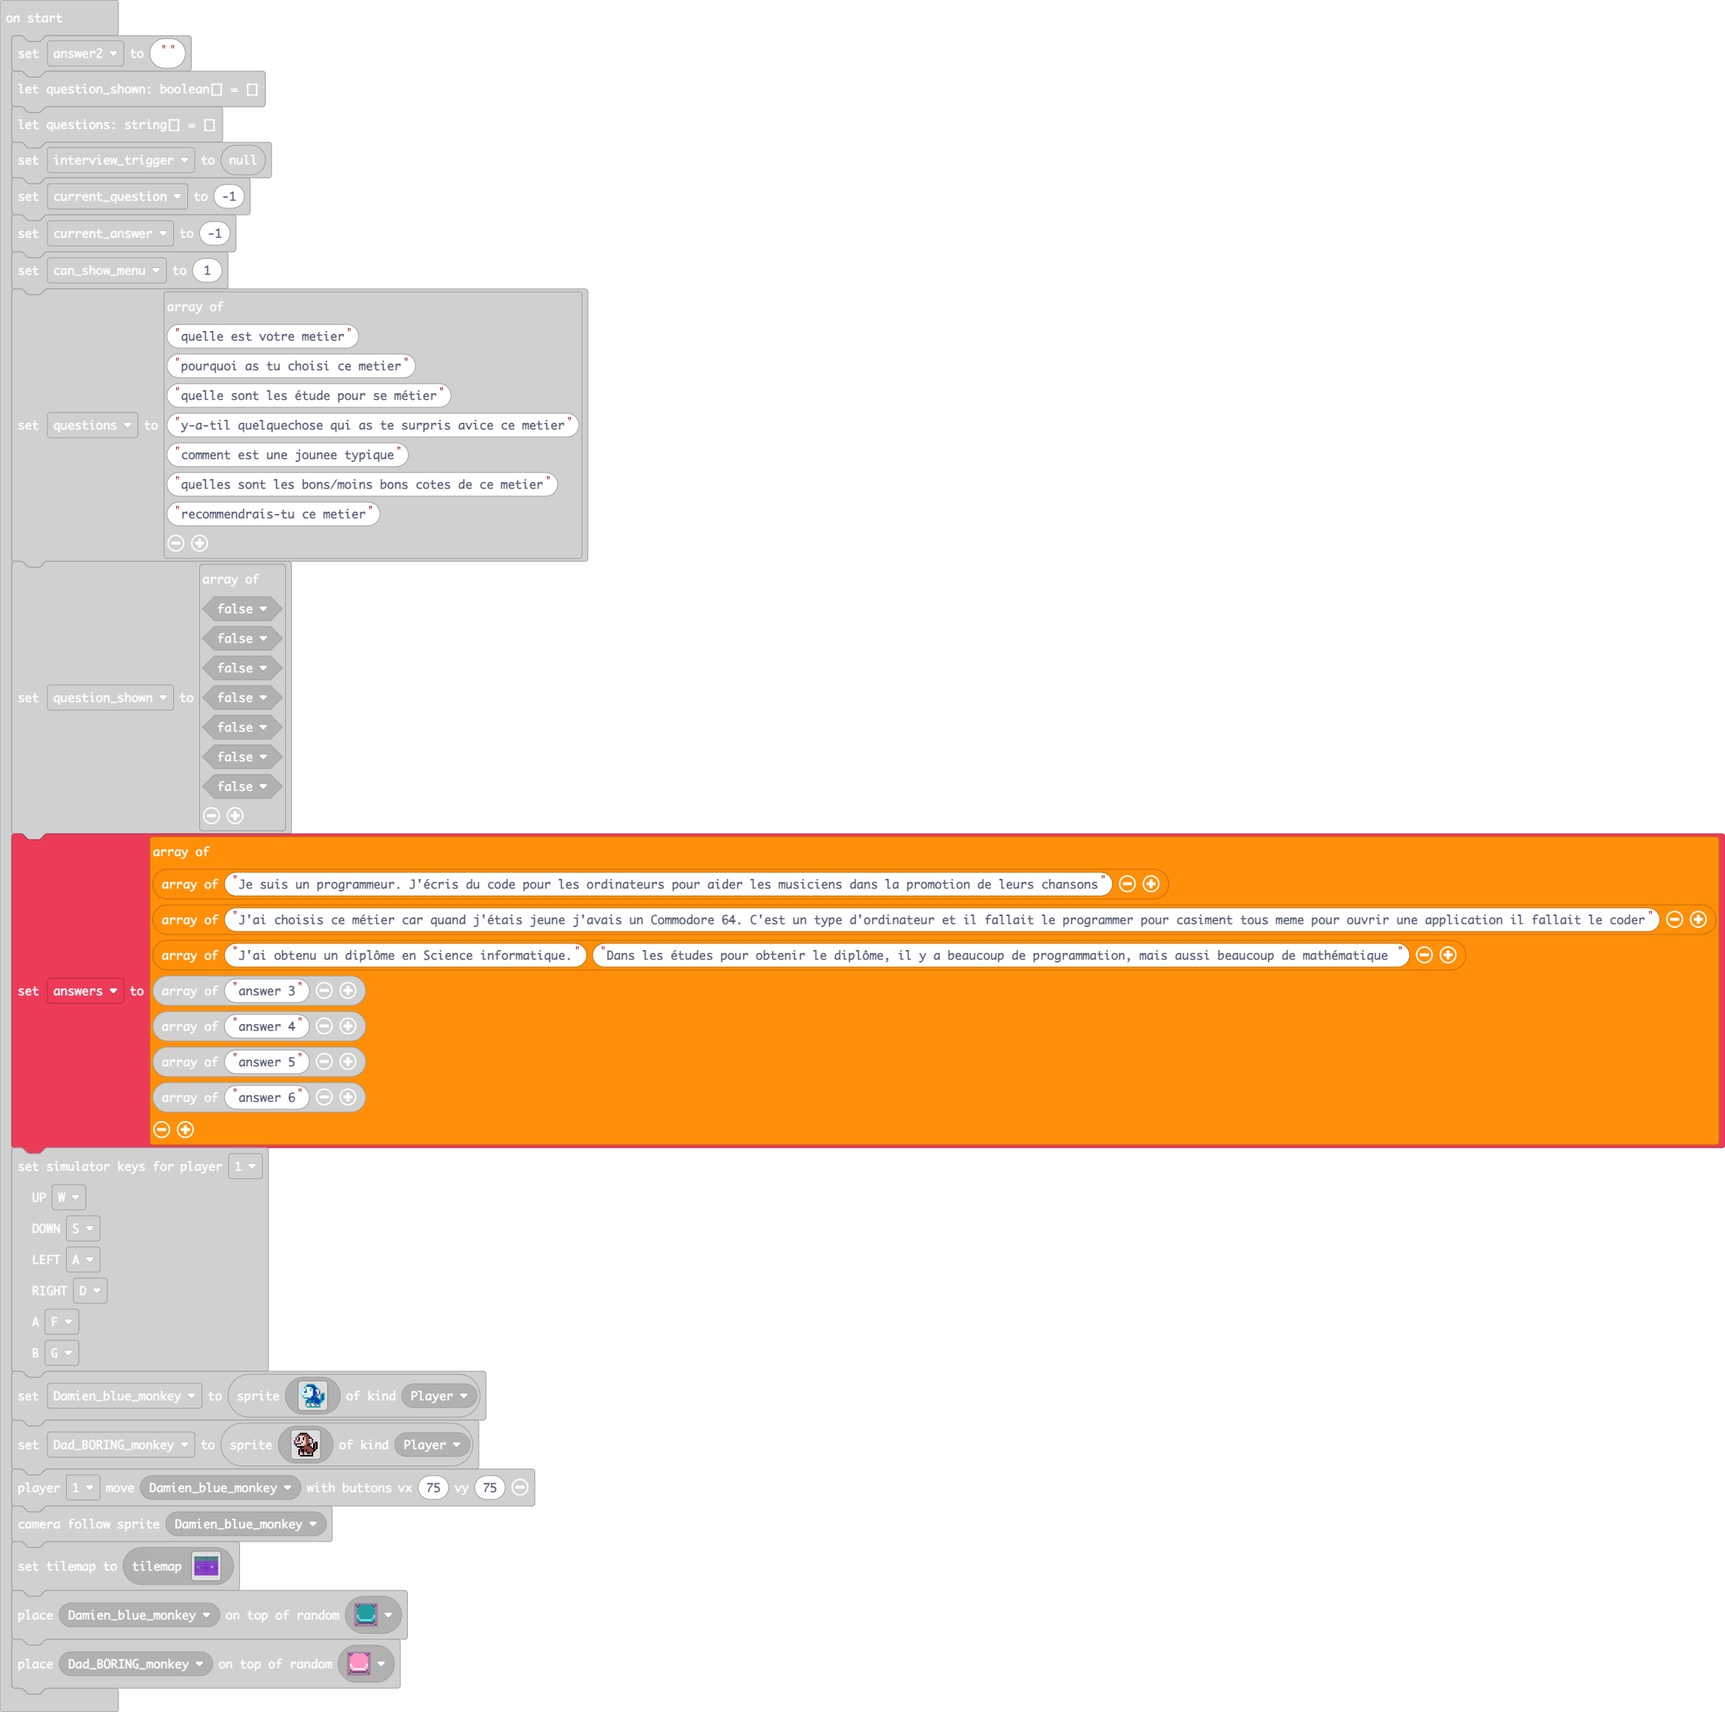
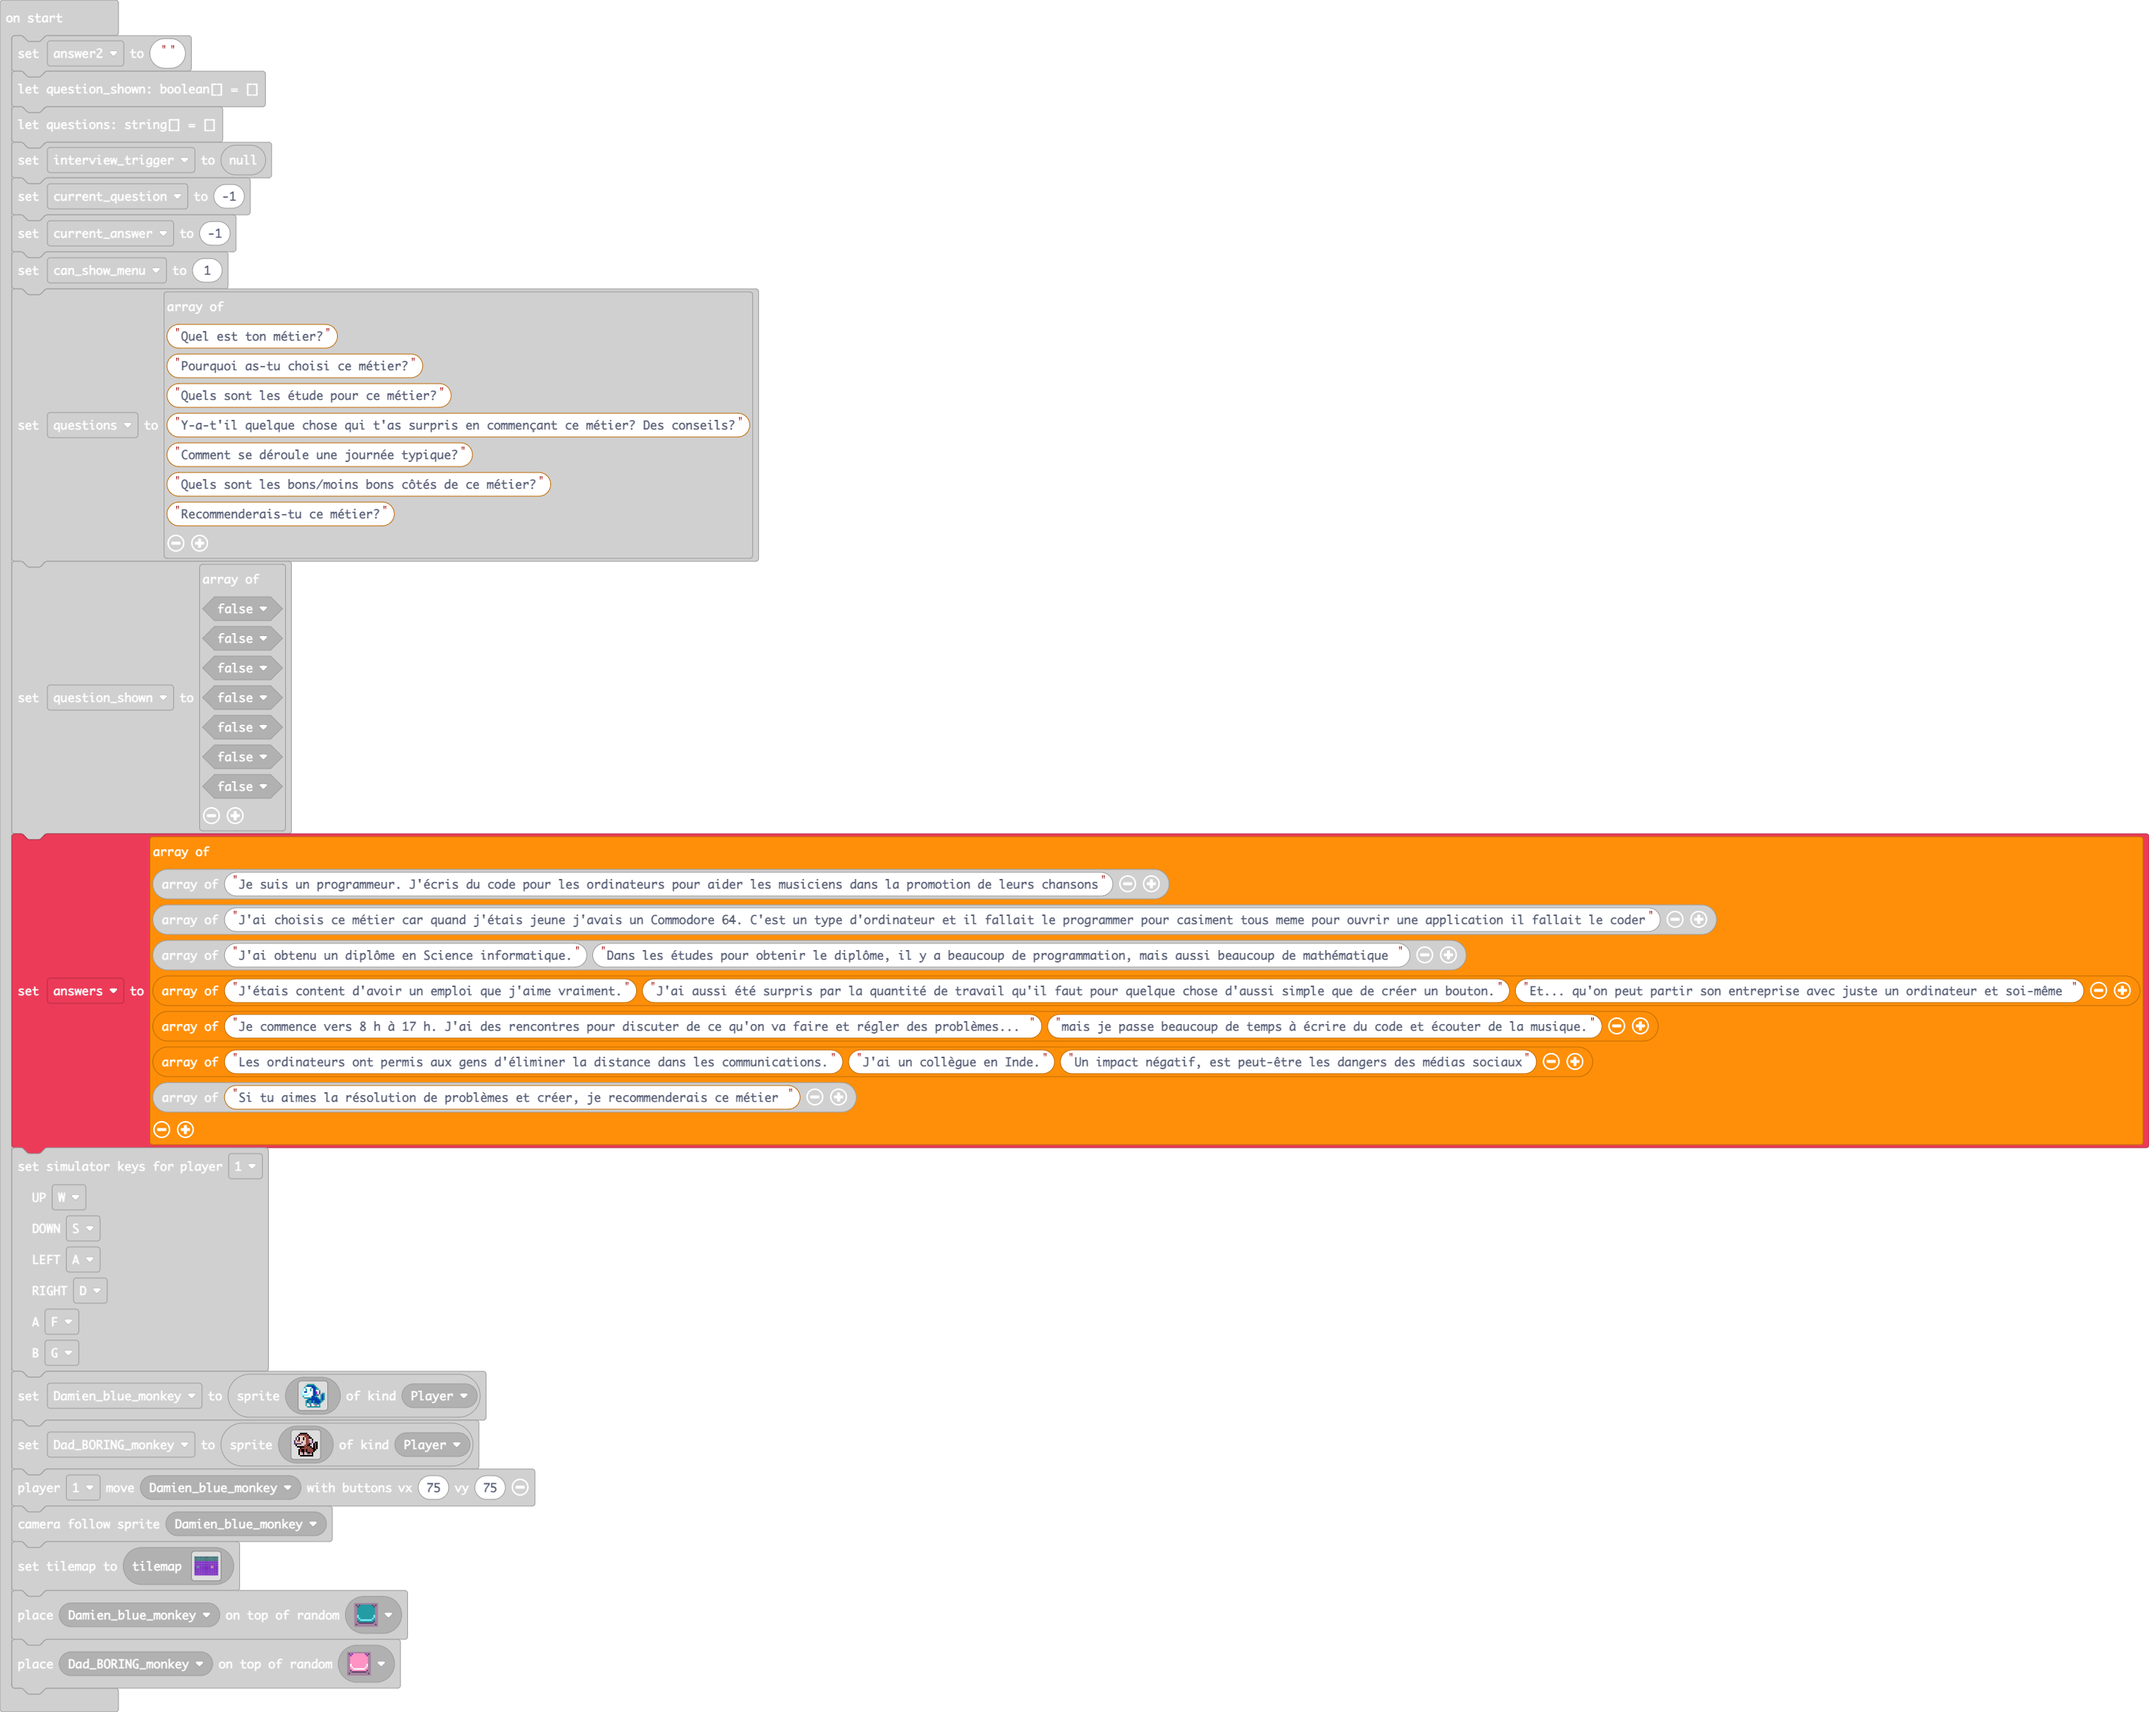
Update main.blocks, main.ts

Changed region(s): [[0.0, 0.0, 1.0, 1.0]]

diff --git a/main.ts b/main.ts
@@ -61,13 +61,13 @@ current_question = -1
 current_answer = -1
 let can_show_menu = 1
 questions = [
-"quelle est votre metier",
-"pourquoi as tu choisi ce metier",
-"quelle sont les étude pour se métier",
-"y-a-til quelquechose qui as te surpris avice ce metier",
-"comment est une jounee typique",
-"quelles sont les bons/moins bons cotes de ce metier",
-"recommendrais-tu ce metier"
+"Quel est ton métier?",
+"Pourquoi as-tu choisi ce métier?",
+"Quels sont les étude pour ce métier?",
+"Y-a-t'il quelque chose qui t'as surpris en commençant ce métier? Des conseils?",
+"Comment se déroule une journée typique?",
+"Quels sont les bons/moins bons côtés de ce métier?",
+"Recommenderais-tu ce métier?"
 ]
 question_shown = [
 false,
@@ -82,10 +82,10 @@ answers = [
 ["Je suis un programmeur. J'écris du code pour les ordinateurs pour aider les musiciens dans la promotion de leurs chansons"],
 ["J'ai choisis ce métier car quand j'étais jeune j'avais un Commodore 64. C'est un type d'ordinateur et il fallait le programmer pour casiment tous meme pour ouvrir une application il fallait le coder"],
 ["J'ai obtenu un diplôme en Science informatique.", "Dans les études pour obtenir le diplôme, il y a beaucoup de programmation, mais aussi beaucoup de mathématique "],
-["answer 3"],
-["answer 4"],
-["answer 5"],
-["answer 6"]
+["J'étais content d'avoir un emploi que j'aime vraiment.", "J'ai aussi été surpris par la quantité de travail qu'il faut pour quelque chose d'aussi simple que de créer un bouton.", "Et... qu'on peut partir son entreprise avec juste un ordinateur et soi-même "],
+["Je commence vers 8 h à 17 h. J'ai des rencontres pour discuter de ce qu'on va faire et régler des problèmes... ", "mais je passe beaucoup de temps à écrire du code et écouter de la musique."],
+["Les ordinateurs ont permis aux gens d'éliminer la distance dans les communications.", "J'ai un collègue en Inde.", "Un impact négatif, est peut-être les dangers des médias sociaux"],
+["Si tu aimes la résolution de problèmes et créer, je recommenderais ce métier "]
 ]
 MakeyMakey.setSimulatorKeymap(
 MakeyMakey.PlayerNumber.ONE,
